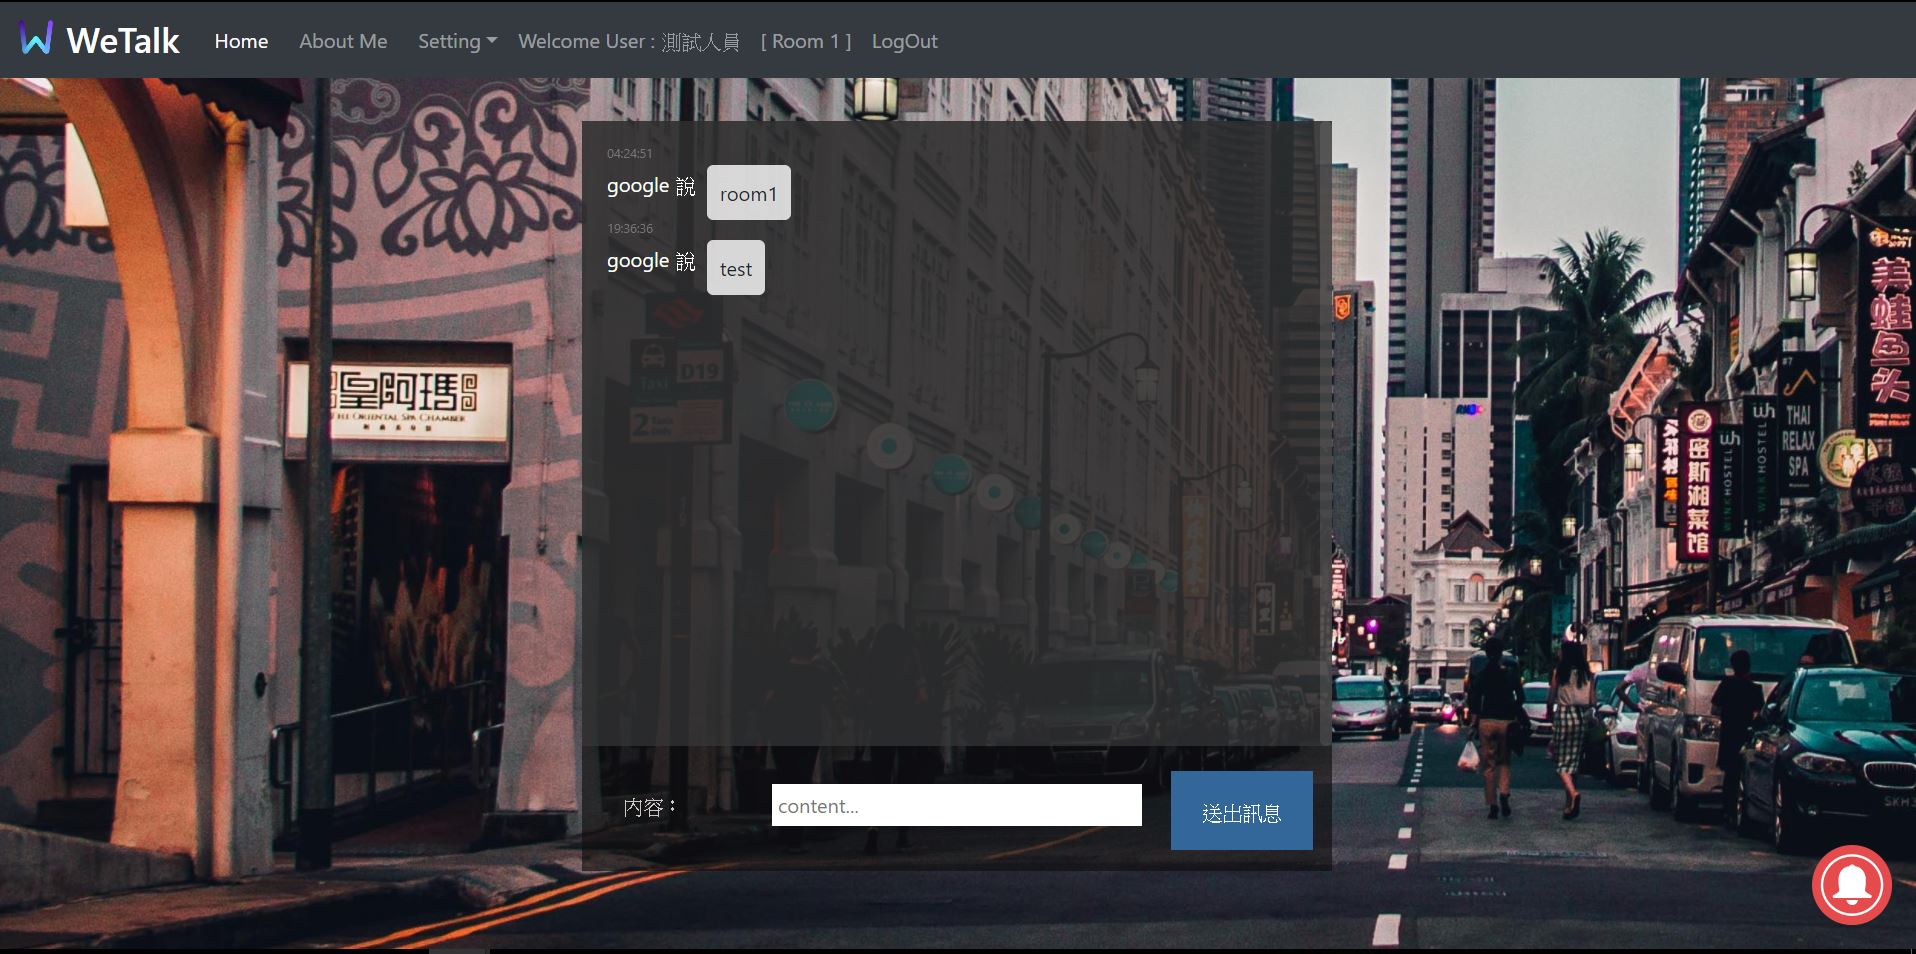
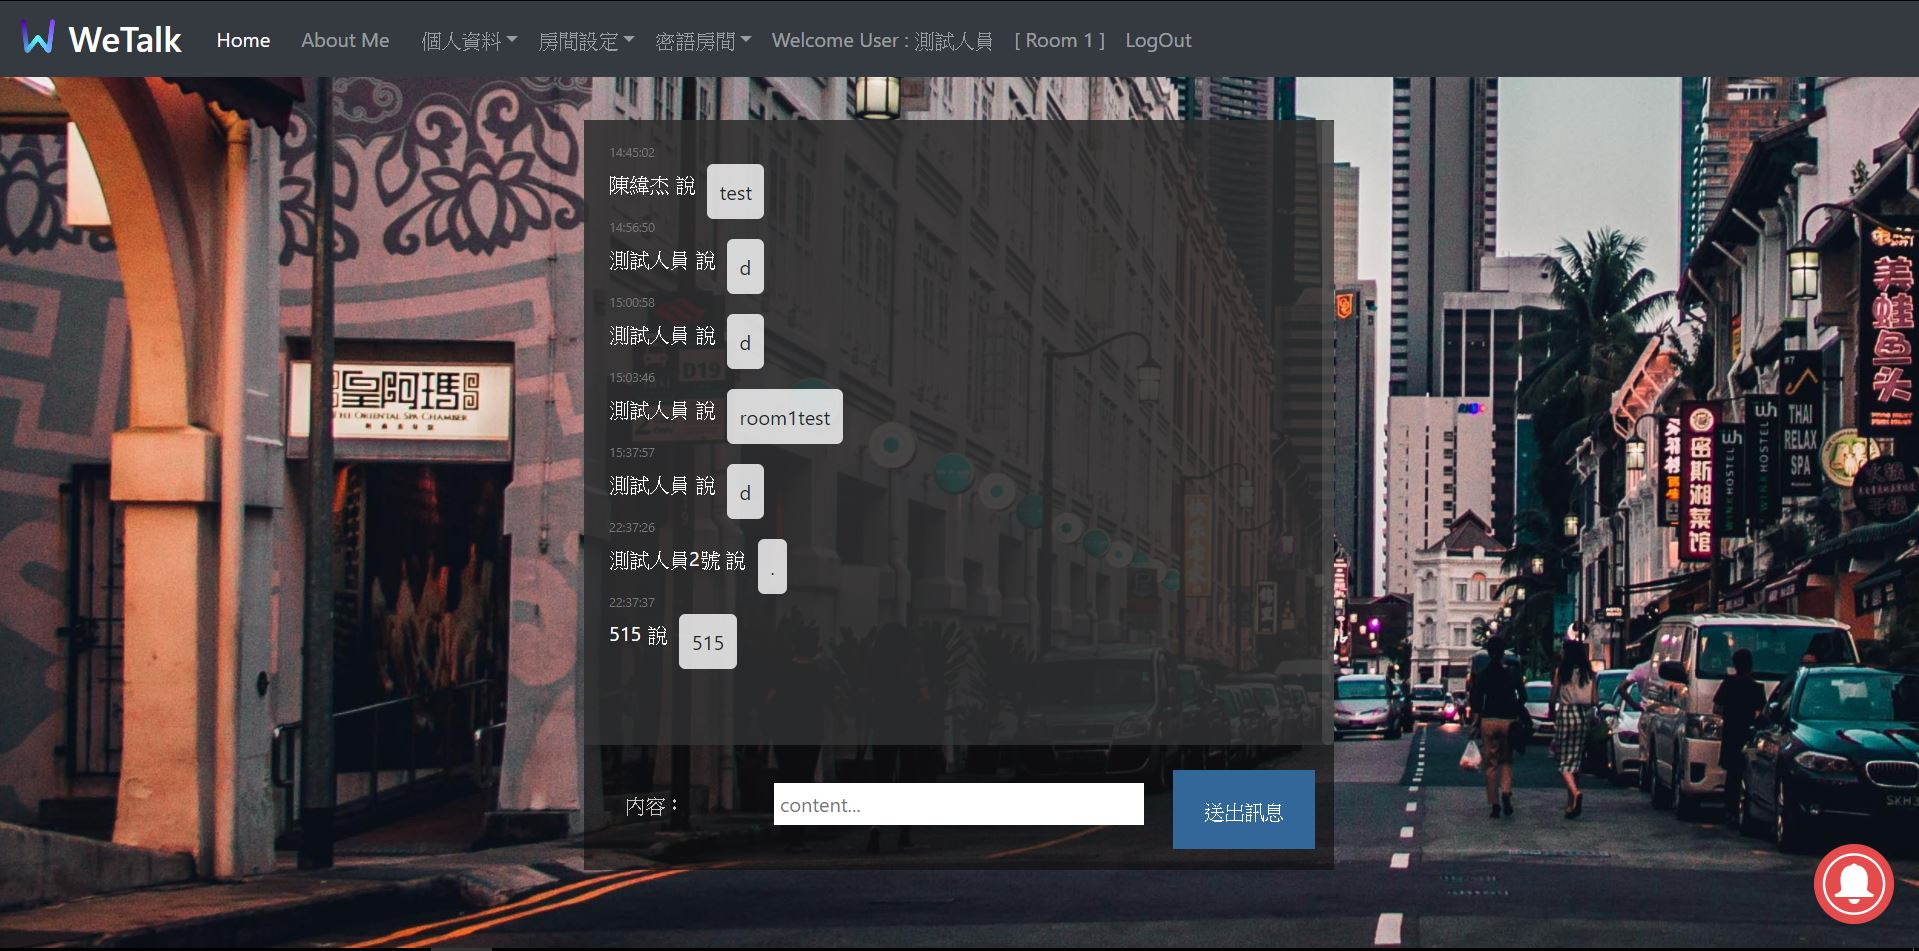
read

diff --git a/chat.html b/chat.html
@@ -98,6 +98,7 @@
                   <a class="dropdown-item" ><button id="createroombtn" onclick="createroom()" >建立密語房間</button></a>
                   <a class="dropdown-item " ><input id="intocreateroom" placeholder="輸入房間密語..."><br/></a>
                   <a class="dropdown-item" ><button id="intocreateroombtn" onclick="intocreateroom()" >進入密語房間</button></a>
+            
                 </div>
               </li>
             <li class="nav-item">

diff --git a/public/chat.html b/public/chat.html
@@ -98,6 +98,7 @@
                   <a class="dropdown-item" ><button id="createroombtn" onclick="createroom()" >建立密語房間</button></a>
                   <a class="dropdown-item " ><input id="intocreateroom" placeholder="輸入房間密語..."><br/></a>
                   <a class="dropdown-item" ><button id="intocreateroombtn" onclick="intocreateroom()" >進入密語房間</button></a>
+            
                 </div>
               </li>
             <li class="nav-item">

diff --git a/public/signin.js b/public/signin.js
@@ -7,7 +7,7 @@ function initApp() {
     var btnFacebook = document.getElementById('facebook');
     var btnSignUp = document.getElementById('signup');
     var btnchangePassword = document.getElementById('changepassword');
-
+    
     btnLogin.addEventListener('click', function () {
         /// TODO 2: Add email login button event
         ///         1. Get user input email and password to login

diff --git a/signin.js b/signin.js
@@ -7,7 +7,7 @@ function initApp() {
     var btnFacebook = document.getElementById('facebook');
     var btnSignUp = document.getElementById('signup');
     var btnchangePassword = document.getElementById('changepassword');
-
+    
     btnLogin.addEventListener('click', function () {
         /// TODO 2: Add email login button event
         ///         1. Get user input email and password to login

diff --git a/README.md b/README.md
@@ -9,9 +9,11 @@
     2. load message history
     3. chat with new user 
 * Other functions (add/delete)
-    1. Random room
-    2. setting account
-    3. 修改密碼
+    1. 可以自己切換公眾房間
+    2. 可以自己創立密語房間(透過密碼才能進入)
+    3. setting account(修改暱稱)
+    4. 修改密碼
+    5. 建立帳號
 
 
 ## Basic Components
@@ -76,10 +78,11 @@
     <br>
     (1) Home 回到首頁<br>
     (2) About me (連結到我的FB)<br>
-    (3) Setting 1.(修改個人暱稱)<br>
-    (4) Setting 2.(隨機配對房間)<br>
-    (5) Welcome user (可以知道目前的使用者)<br>
-    (6) LogOut 登出<br>
+    (3) 個人資料(修改個人暱稱)<br>
+    (4) 房間設定(可以選擇公眾房間)<br>
+    (5) 密語房間(可以建立專屬密語的房間以及輸入密語進入))<br>
+    (6) Welcome user (可以知道目前的使用者)<br>
+    (7) LogOut 登出<br>
     
 
 ----------------------------------------
@@ -98,5 +101,5 @@
 
     這樣做是為了確保使用者與網站、或兩個系統之間傳輸的任何資料保持無法被讀取的狀態。此技術可使用加密演算法以混淆輸送中的資料，防止駭客在資料透過連線發送時讀取資料。此資訊可能是任何敏感或個人資訊，包括信用卡號與其他財務資訊、姓名與地址。<br>
     HTTPS (Hyper Text Transfer Protocol Secure，超級文字傳輸協議安全) 會在網站受到 SSL 憑證保護時在網址中出現。該憑證的詳細資料包括發行機構與網站擁有人的企業名稱，可以透過按一下瀏覽器列上的鎖定標記進行檢視。
-    
-    所以當網頁是以https開頭，代表這個網站的安全性是足夠的
+ 
+3.  所以當網頁是以https開頭，代表這個網站的安全性是足夠的

diff --git a/public/README.md b/public/README.md
@@ -9,9 +9,11 @@
     2. load message history
     3. chat with new user 
 * Other functions (add/delete)
-    1. Random room
-    2. setting account
-    3. 修改密碼
+    1. 可以自己切換公眾房間
+    2. 可以自己創立密語房間(透過密碼才能進入)
+    3. setting account(修改暱稱)
+    4. 修改密碼
+    5. 建立帳號
 
 
 ## Basic Components
@@ -76,10 +78,11 @@
     <br>
     (1) Home 回到首頁<br>
     (2) About me (連結到我的FB)<br>
-    (3) Setting 1.(修改個人暱稱)<br>
-    (4) Setting 2.(隨機配對房間)<br>
-    (5) Welcome user (可以知道目前的使用者)<br>
-    (6) LogOut 登出<br>
+    (3) 個人資料(修改個人暱稱)<br>
+    (4) 房間設定(可以選擇公眾房間)<br>
+    (5) 密語房間(可以建立專屬密語的房間以及輸入密語進入))<br>
+    (6) Welcome user (可以知道目前的使用者)<br>
+    (7) LogOut 登出<br>
     
 
 ----------------------------------------
@@ -98,5 +101,5 @@
 
     這樣做是為了確保使用者與網站、或兩個系統之間傳輸的任何資料保持無法被讀取的狀態。此技術可使用加密演算法以混淆輸送中的資料，防止駭客在資料透過連線發送時讀取資料。此資訊可能是任何敏感或個人資訊，包括信用卡號與其他財務資訊、姓名與地址。<br>
     HTTPS (Hyper Text Transfer Protocol Secure，超級文字傳輸協議安全) 會在網站受到 SSL 憑證保護時在網址中出現。該憑證的詳細資料包括發行機構與網站擁有人的企業名稱，可以透過按一下瀏覽器列上的鎖定標記進行檢視。
-    
-    所以當網頁是以https開頭，代表這個網站的安全性是足夠的
+ 
+3.  所以當網頁是以https開頭，代表這個網站的安全性是足夠的
